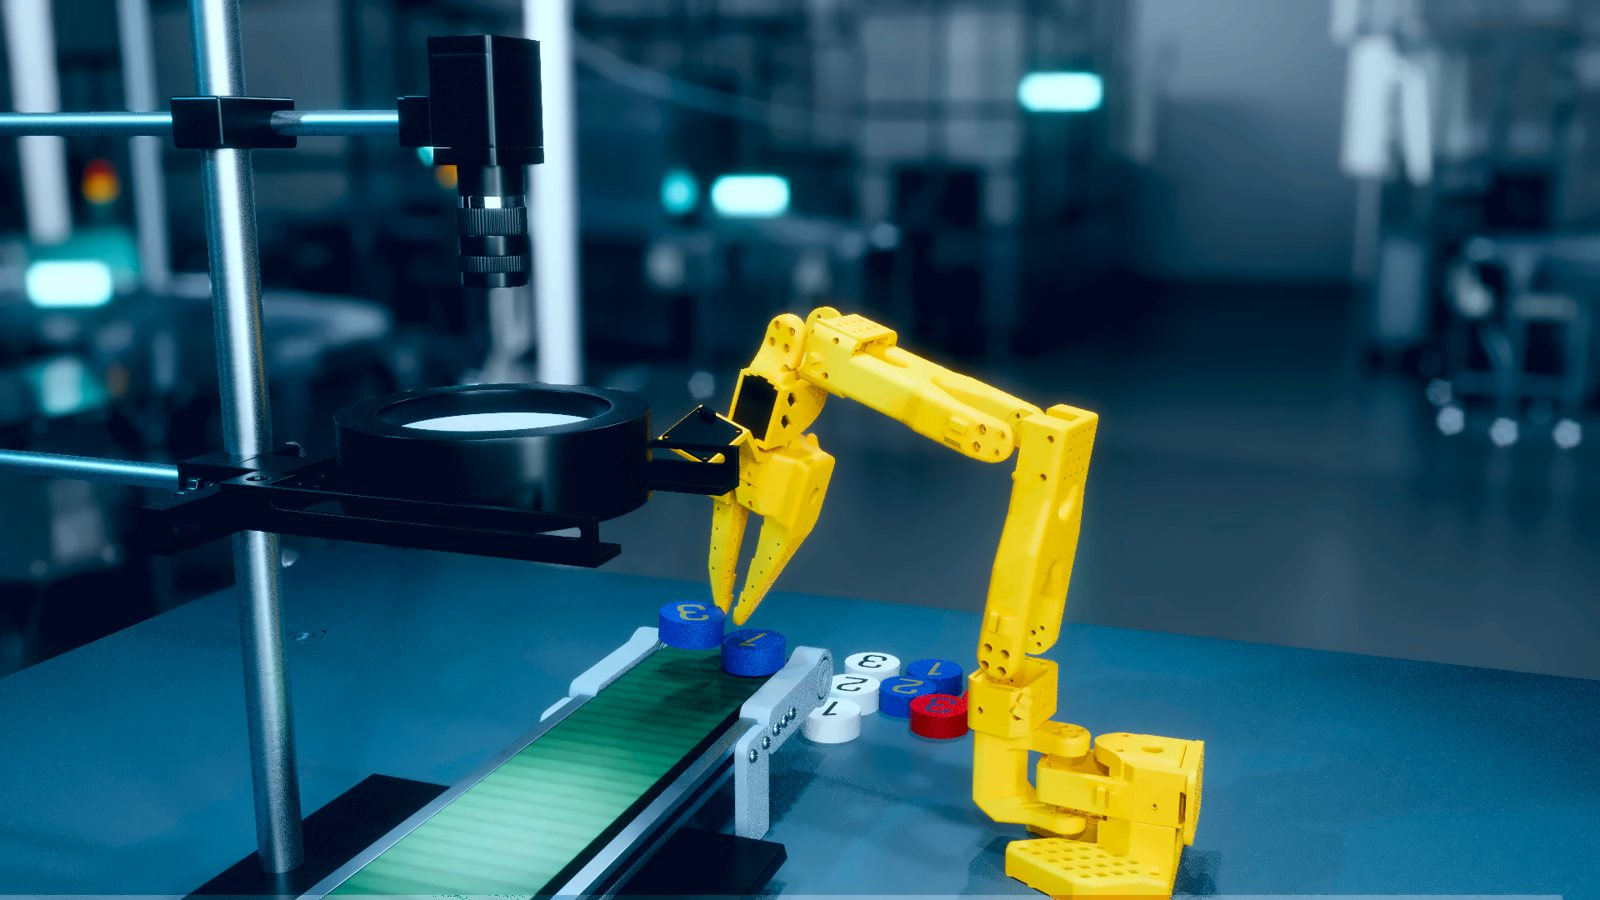
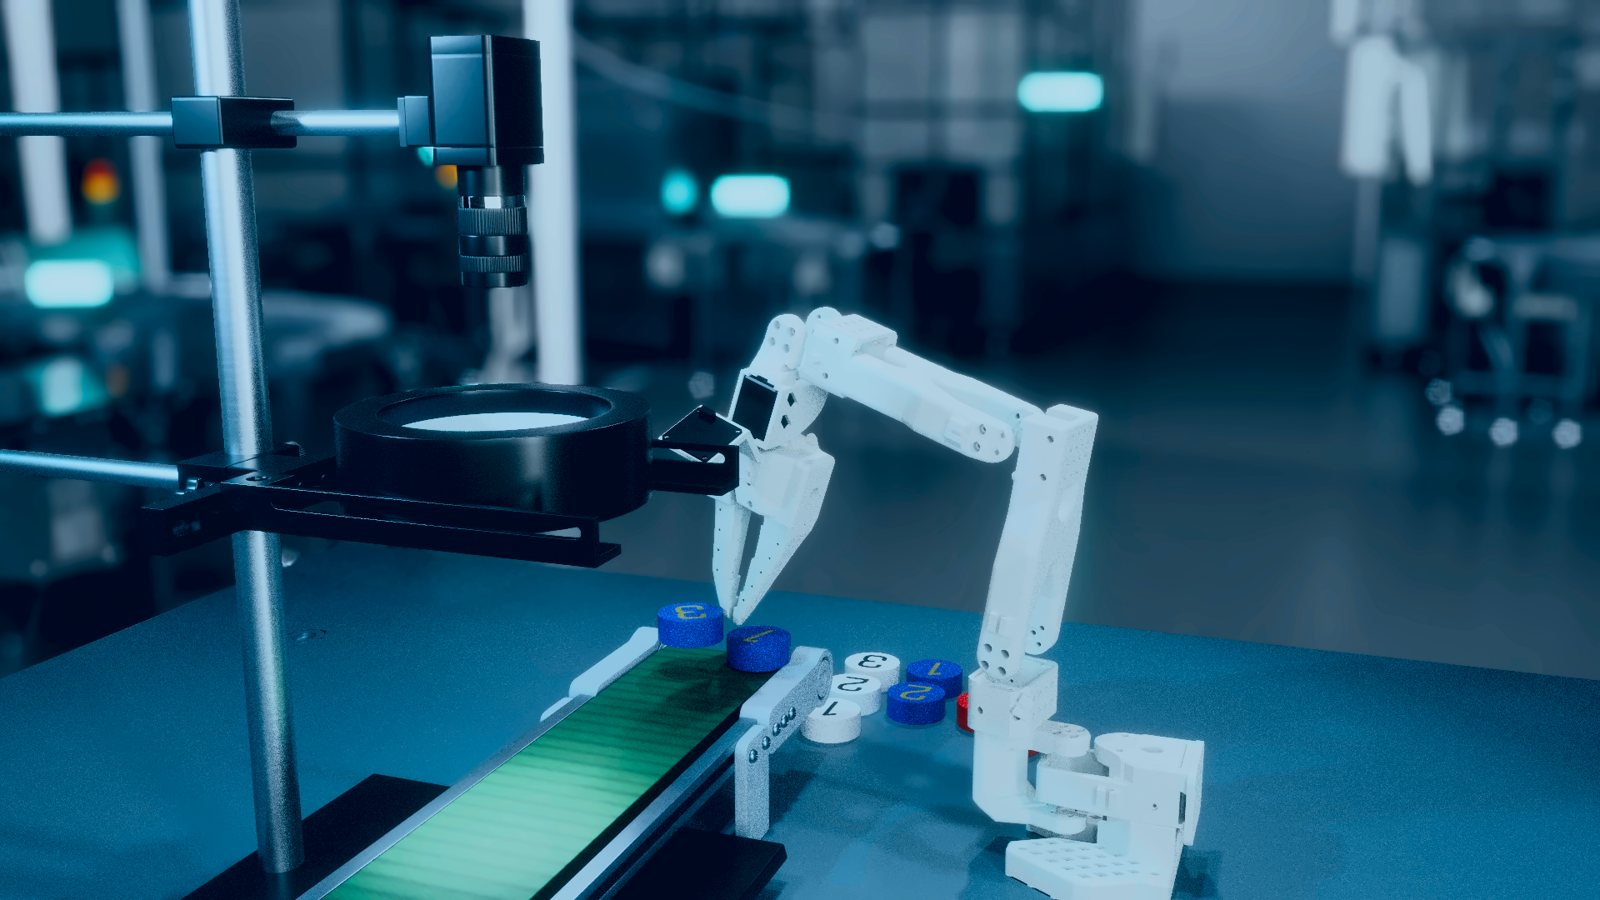
docs: README 스크린샷을 흰색 로봇팔(실물 팔로워 팔과 같은 색) 고퀄 렌더로 교체 — 뚜껑 윗면·벨트 천·프레임 재질 디테일 살림

diff --git a/README.md b/README.md
@@ -49,14 +49,9 @@
 | | |
 |---|---|
 | ![컨베이어 장면](docs/images/hq/scene_main.jpg) | ![뚜껑 집기 + 패널](docs/images/hq/pick_ui.jpg) |
-| 검사 카메라·링라이트·컨베이어·로봇팔 | 뚜껑 집기 자세와 패널 관절 값 |
+| 검사 카메라·링라이트·컨베이어·로봇팔 (실물 팔로워 팔과 같은 흰색) | 뚜껑 집기 자세와 패널 관절 값 |
 | ![집게 가까이](docs/images/hq/pick_close.jpg) | ![컨베이어에 올리기](docs/images/hq/place_on_belt.jpg) |
 | 집게가 뚜껑을 잡는 장면 | 집은 뚜껑을 컨베이어에 올리는 장면 |
-
-<p align="center">
-  <img src="docs/images/hq/thumb_ui_white.jpg" alt="흰색 로봇팔 버전" width="720"><br>
-  <sub>실물 팔로워 팔(흰색)에 맞춘 색 버전</sub>
-</p>
 
 ## 할 수 있는 것
 
